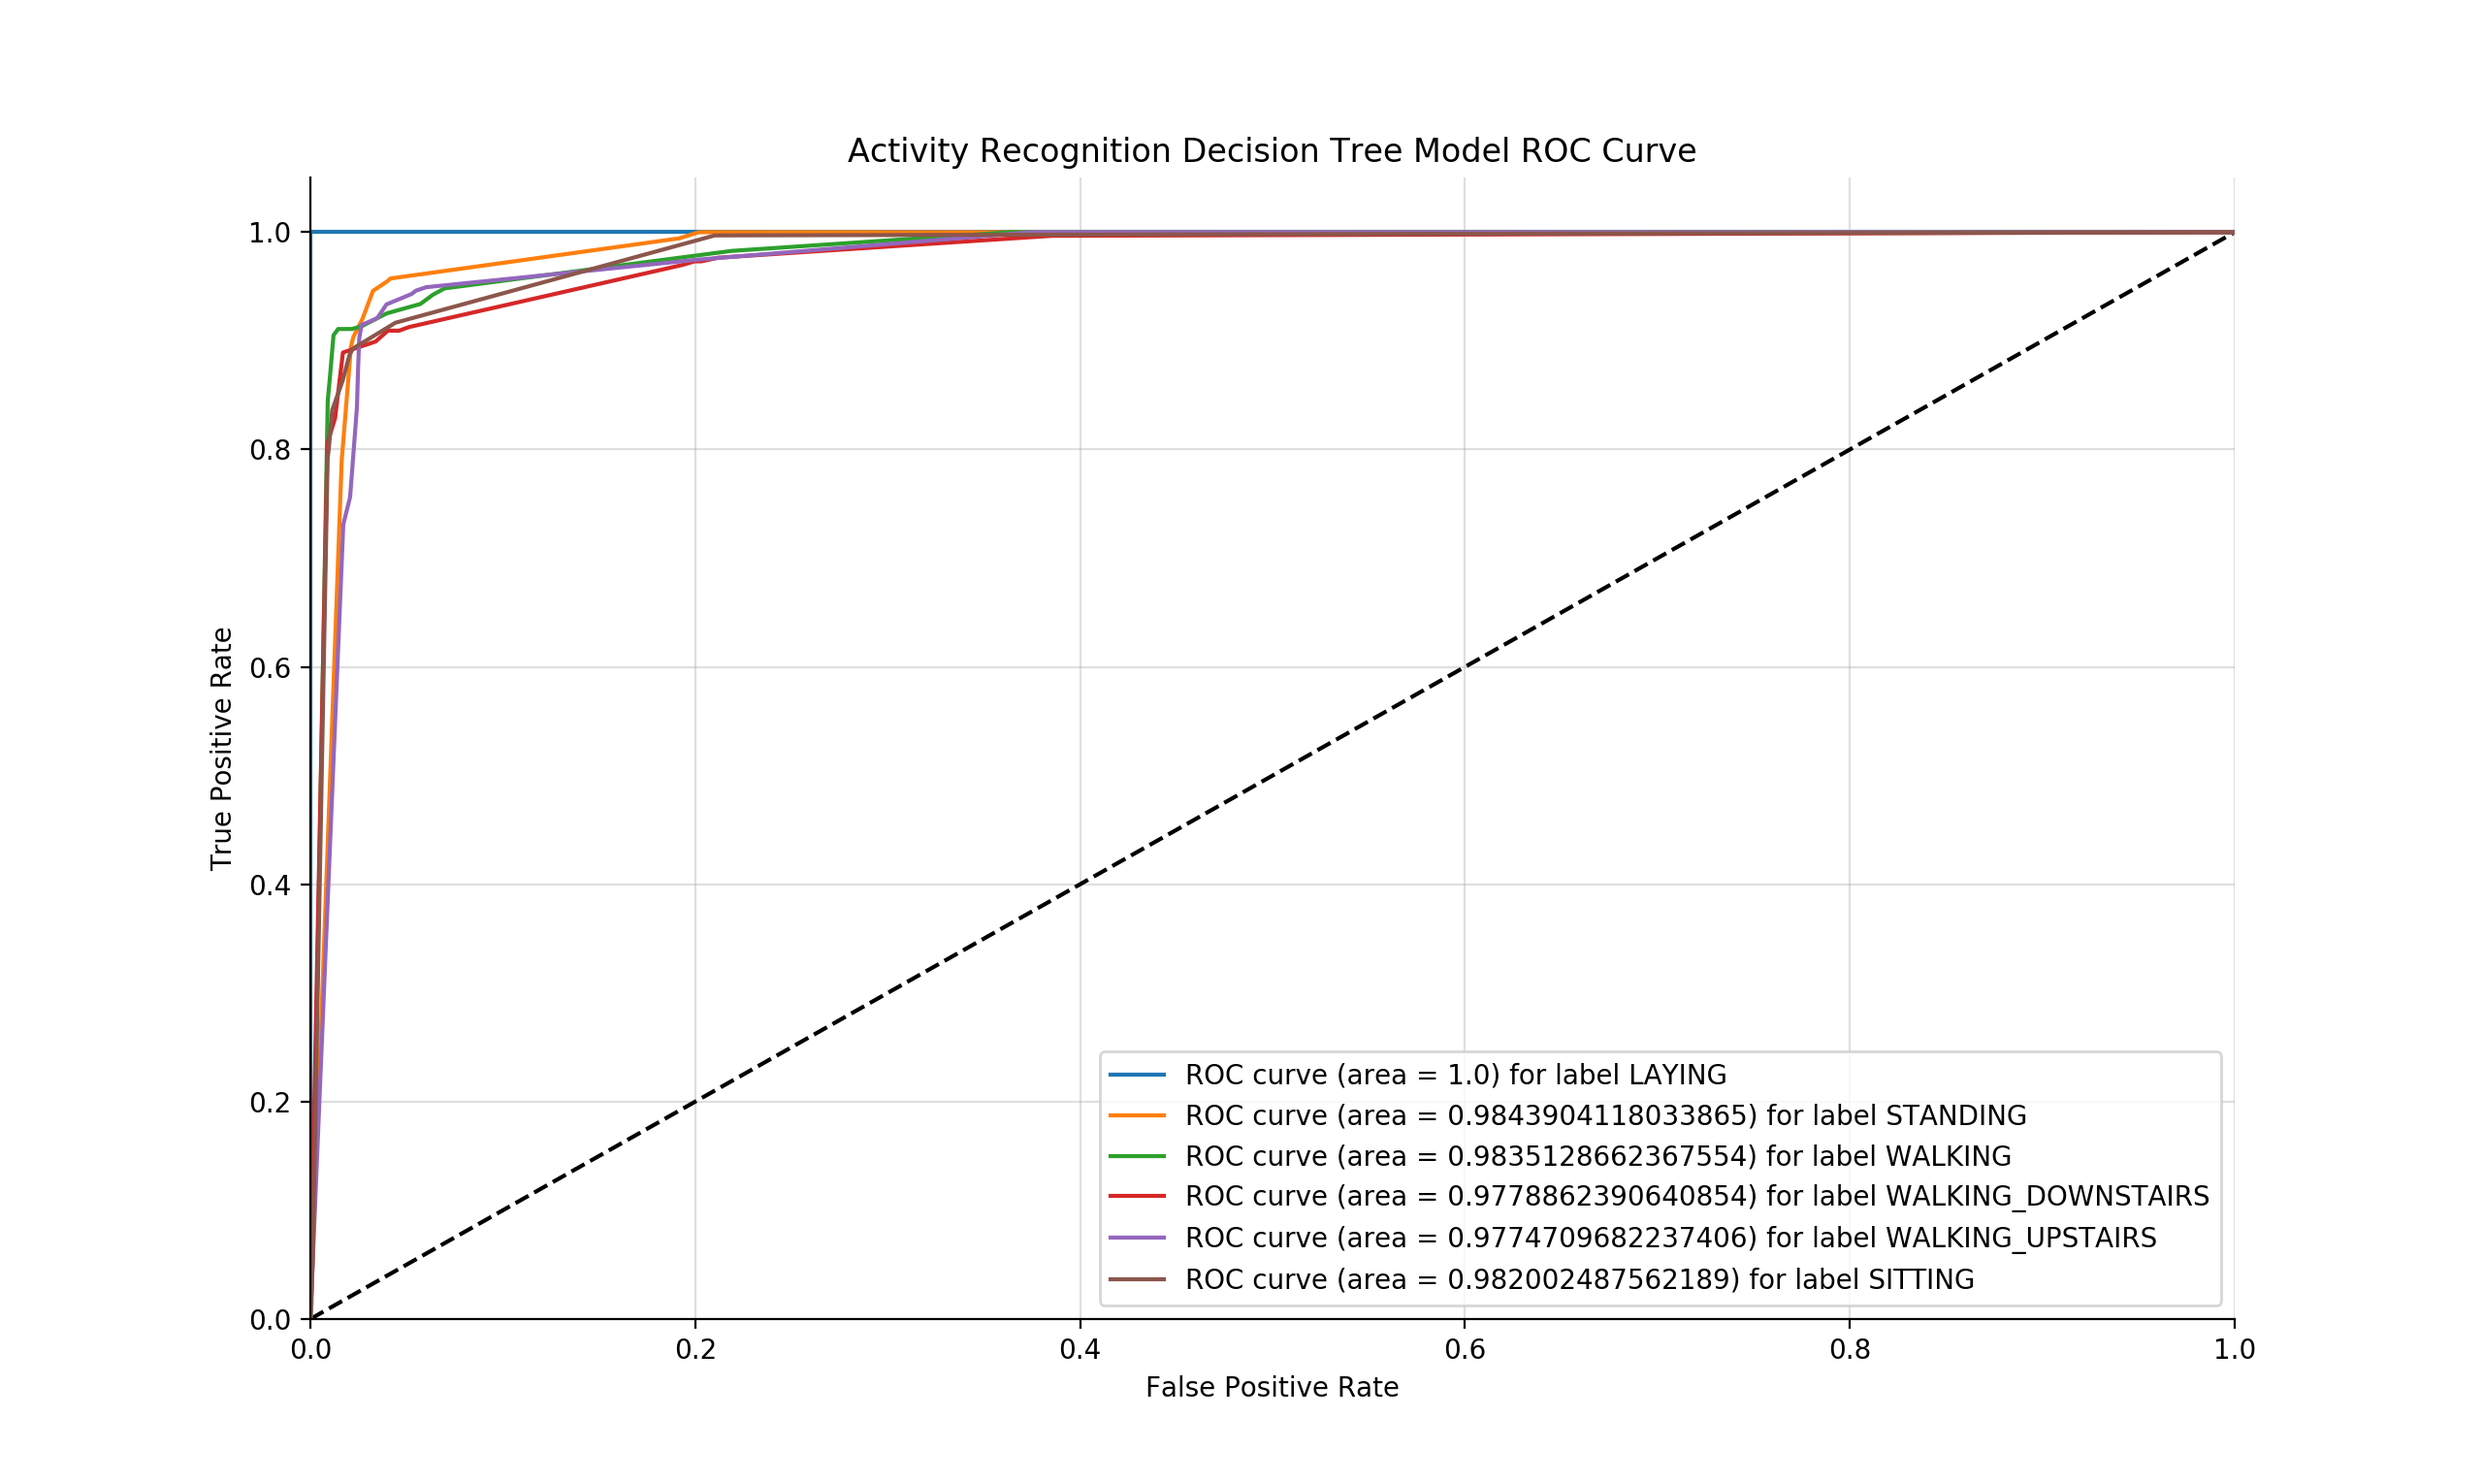
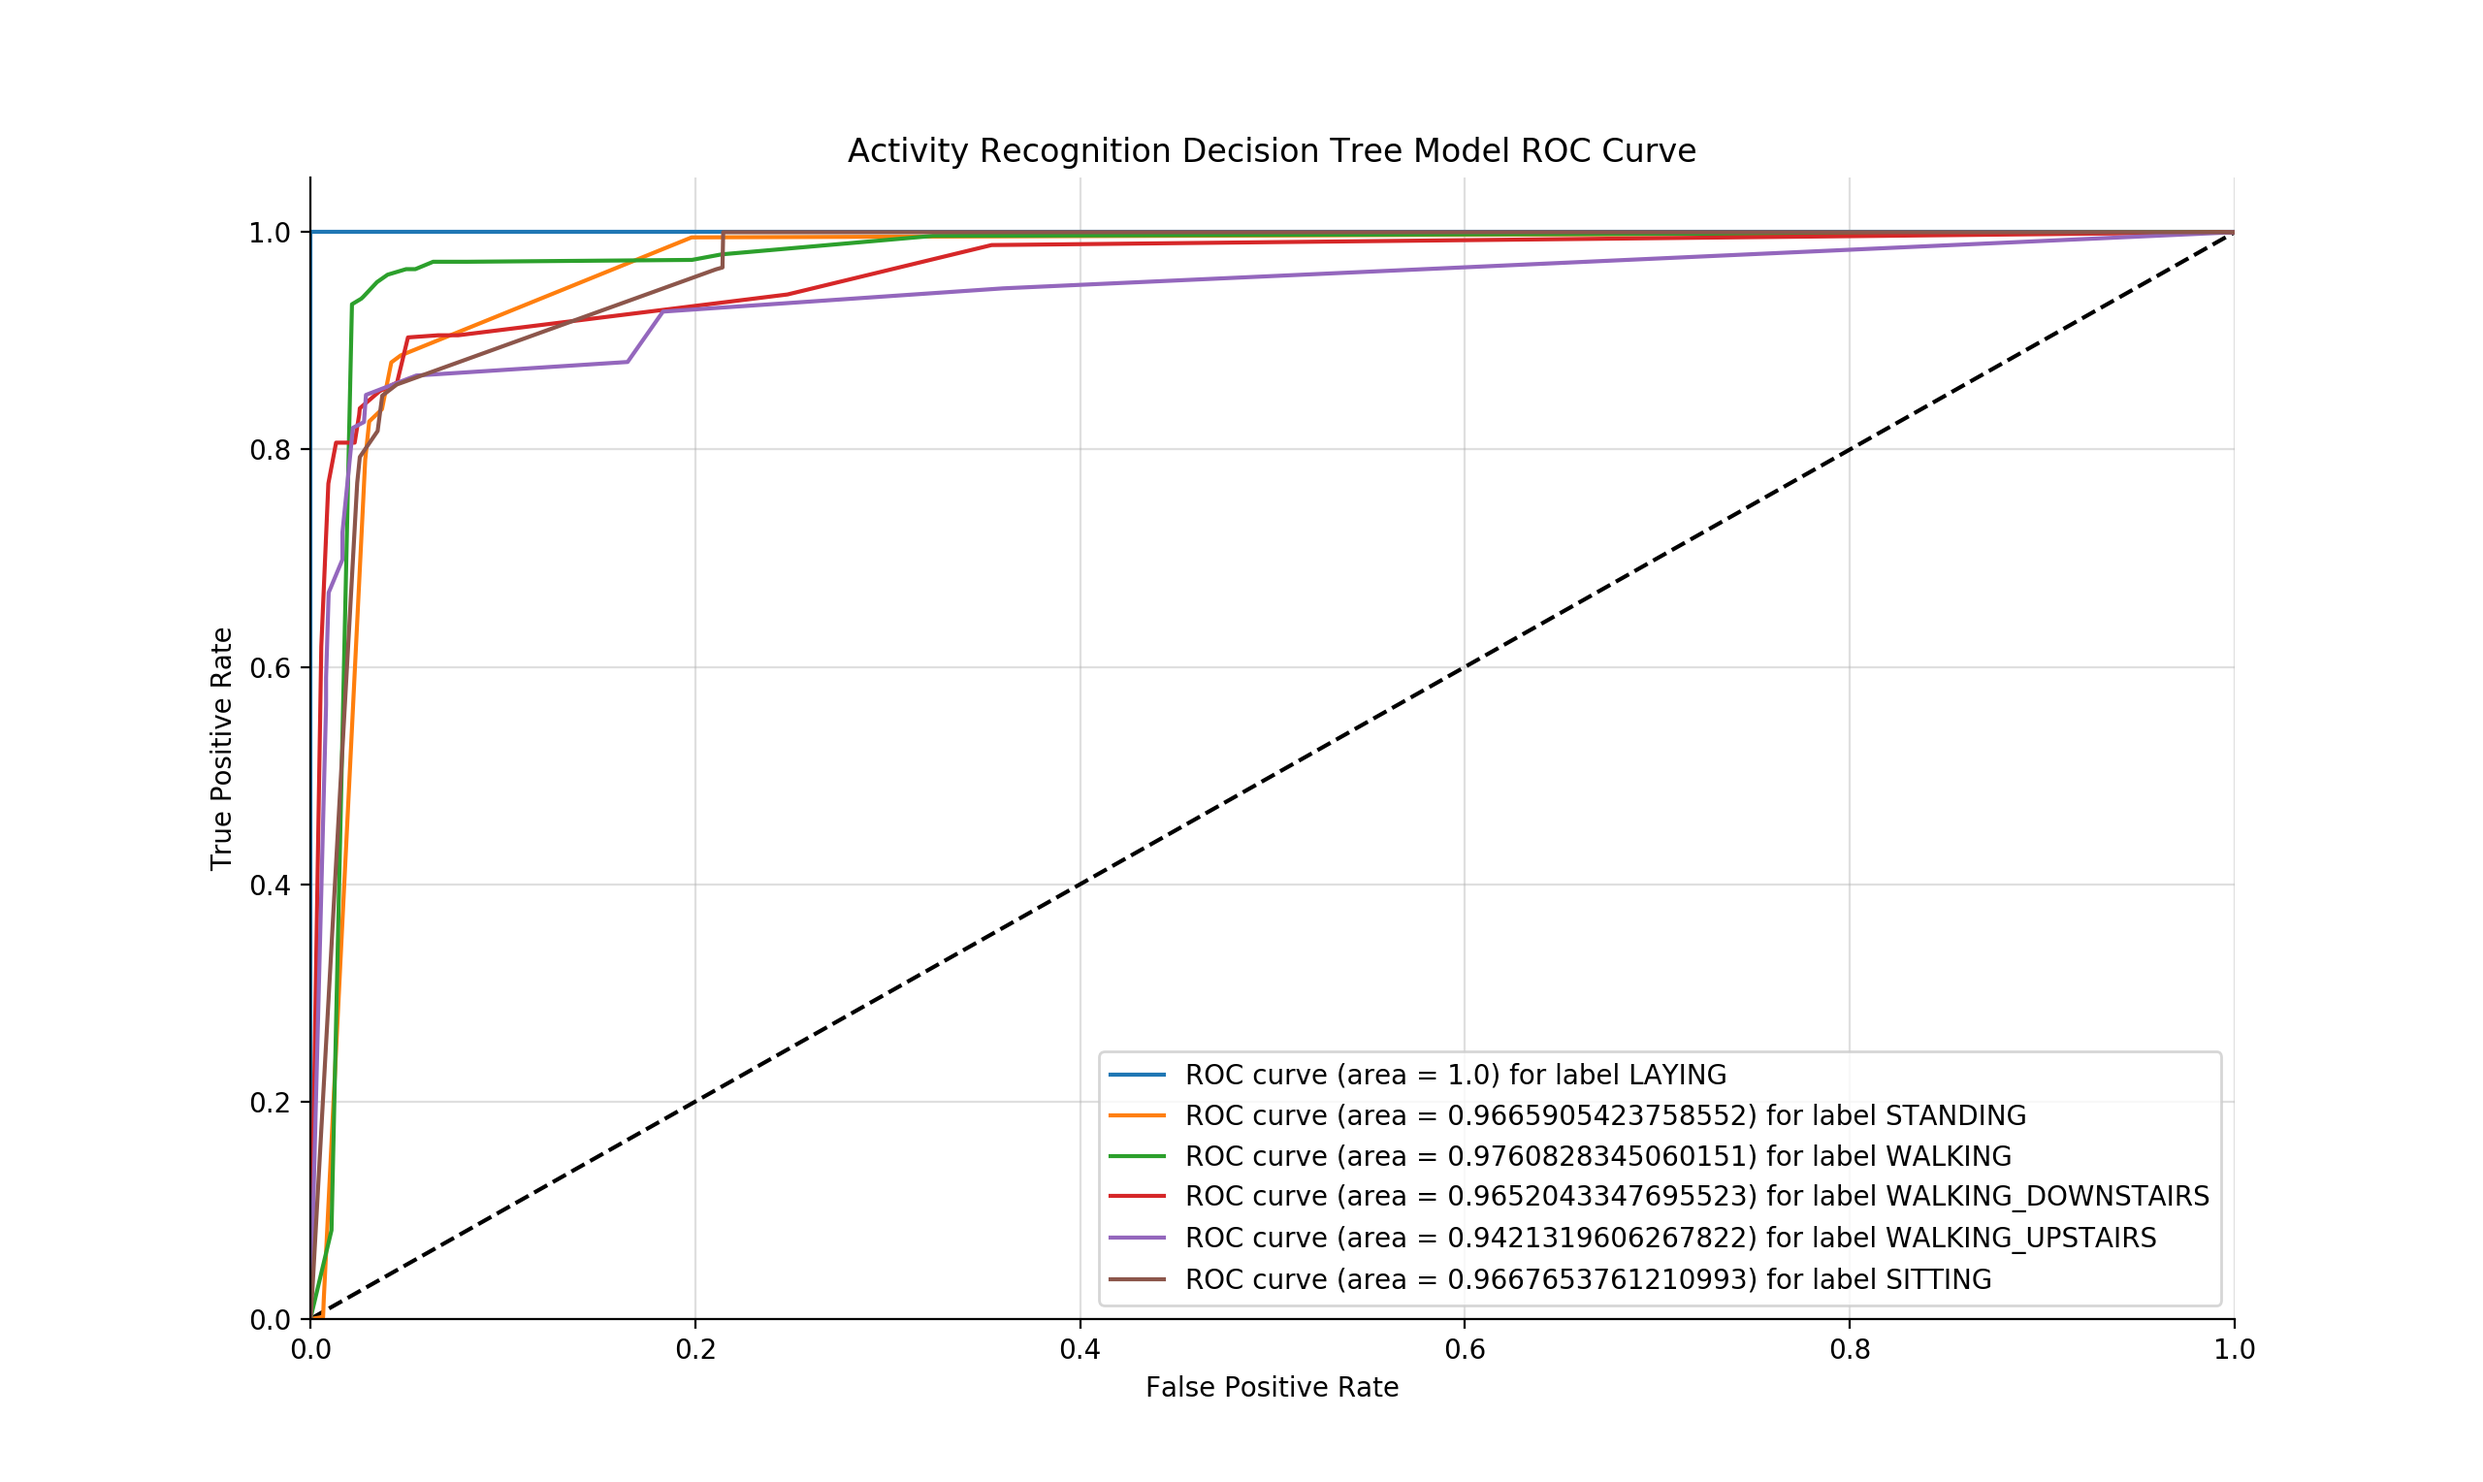
New training & data set for decision tree

Changed region(s): [[0.125, 0.1538, 0.875, 0.892], [0.5938, 0.7382, 0.8125, 0.892], [0.7812, 0.7382, 0.8125, 0.769]]

diff --git a/decision_tree.py b/decision_tree.py
@@ -22,10 +22,24 @@ df = pd.read_csv(path)
 target_labels =  ['LAYING', 'STANDING', 'WALKING', 'WALKING_DOWNSTAIRS', 'WALKING_UPSTAIRS','SITTING']
 df['Activity'] = df["Activity"].map({"LAYING": 0, "STANDING": 1, 'WALKING': 2, 'WALKING_DOWNSTAIRS': 3, 'WALKING_UPSTAIRS': 4, 'SITTING': 5})
 
-msk = np.random.rand(len(df)) < 0.8
-train = df[msk]
-test = df[~msk]
+# assign 66% of each type to training dataset
+num_type = [0,0,0,0,0,0]
+for index, row in df.iterrows():
+    num_type[int(row[57])] += 1
 
+num_test = [int(i * 0.66) for i in num_type]
+
+train, test = [],[]
+
+for index, row in df.iterrows():
+    num_test[int(row[57])] -= 1
+    if (num_test[int(row[57])] >= 0):
+        train.append(row)
+    else:
+        test.append(row)
+ 
+train = pd.DataFrame(train)
+test = pd.DataFrame(test)
 x_train = train.iloc[:,0:562]
 y_train = train['Activity']
 x_test = test.iloc[:,0:562]
@@ -40,21 +54,18 @@ print(confusion_matrix(y_train, clf.predict(x_train)))
 print("Confusion matrix on testing set: ")
 print(confusion_matrix(y_test, y_pred))	
 
-
-"""
 # visualize decision tree
 dot_data = StringIO()
 tree.export_graphviz(clf, out_file=dot_data,  
                 filled=True, rounded=True,
                 special_characters=True,class_names=target_labels)
 graph = pydotplus.graph_from_dot_data(dot_data.getvalue())  
-graph.write_png('decision_tree_with_min_impurity.png')
+graph.write_png('simple_decision_tree.png')
 Image(graph.create_png())
-"""
+
 
 def plot_multiclass_roc(clf, X_test, y_test, n_classes, figsize):
     y_score = clf.predict_proba(X_test)
-    print(y_score)
 
     # structures
     fpr = dict()
